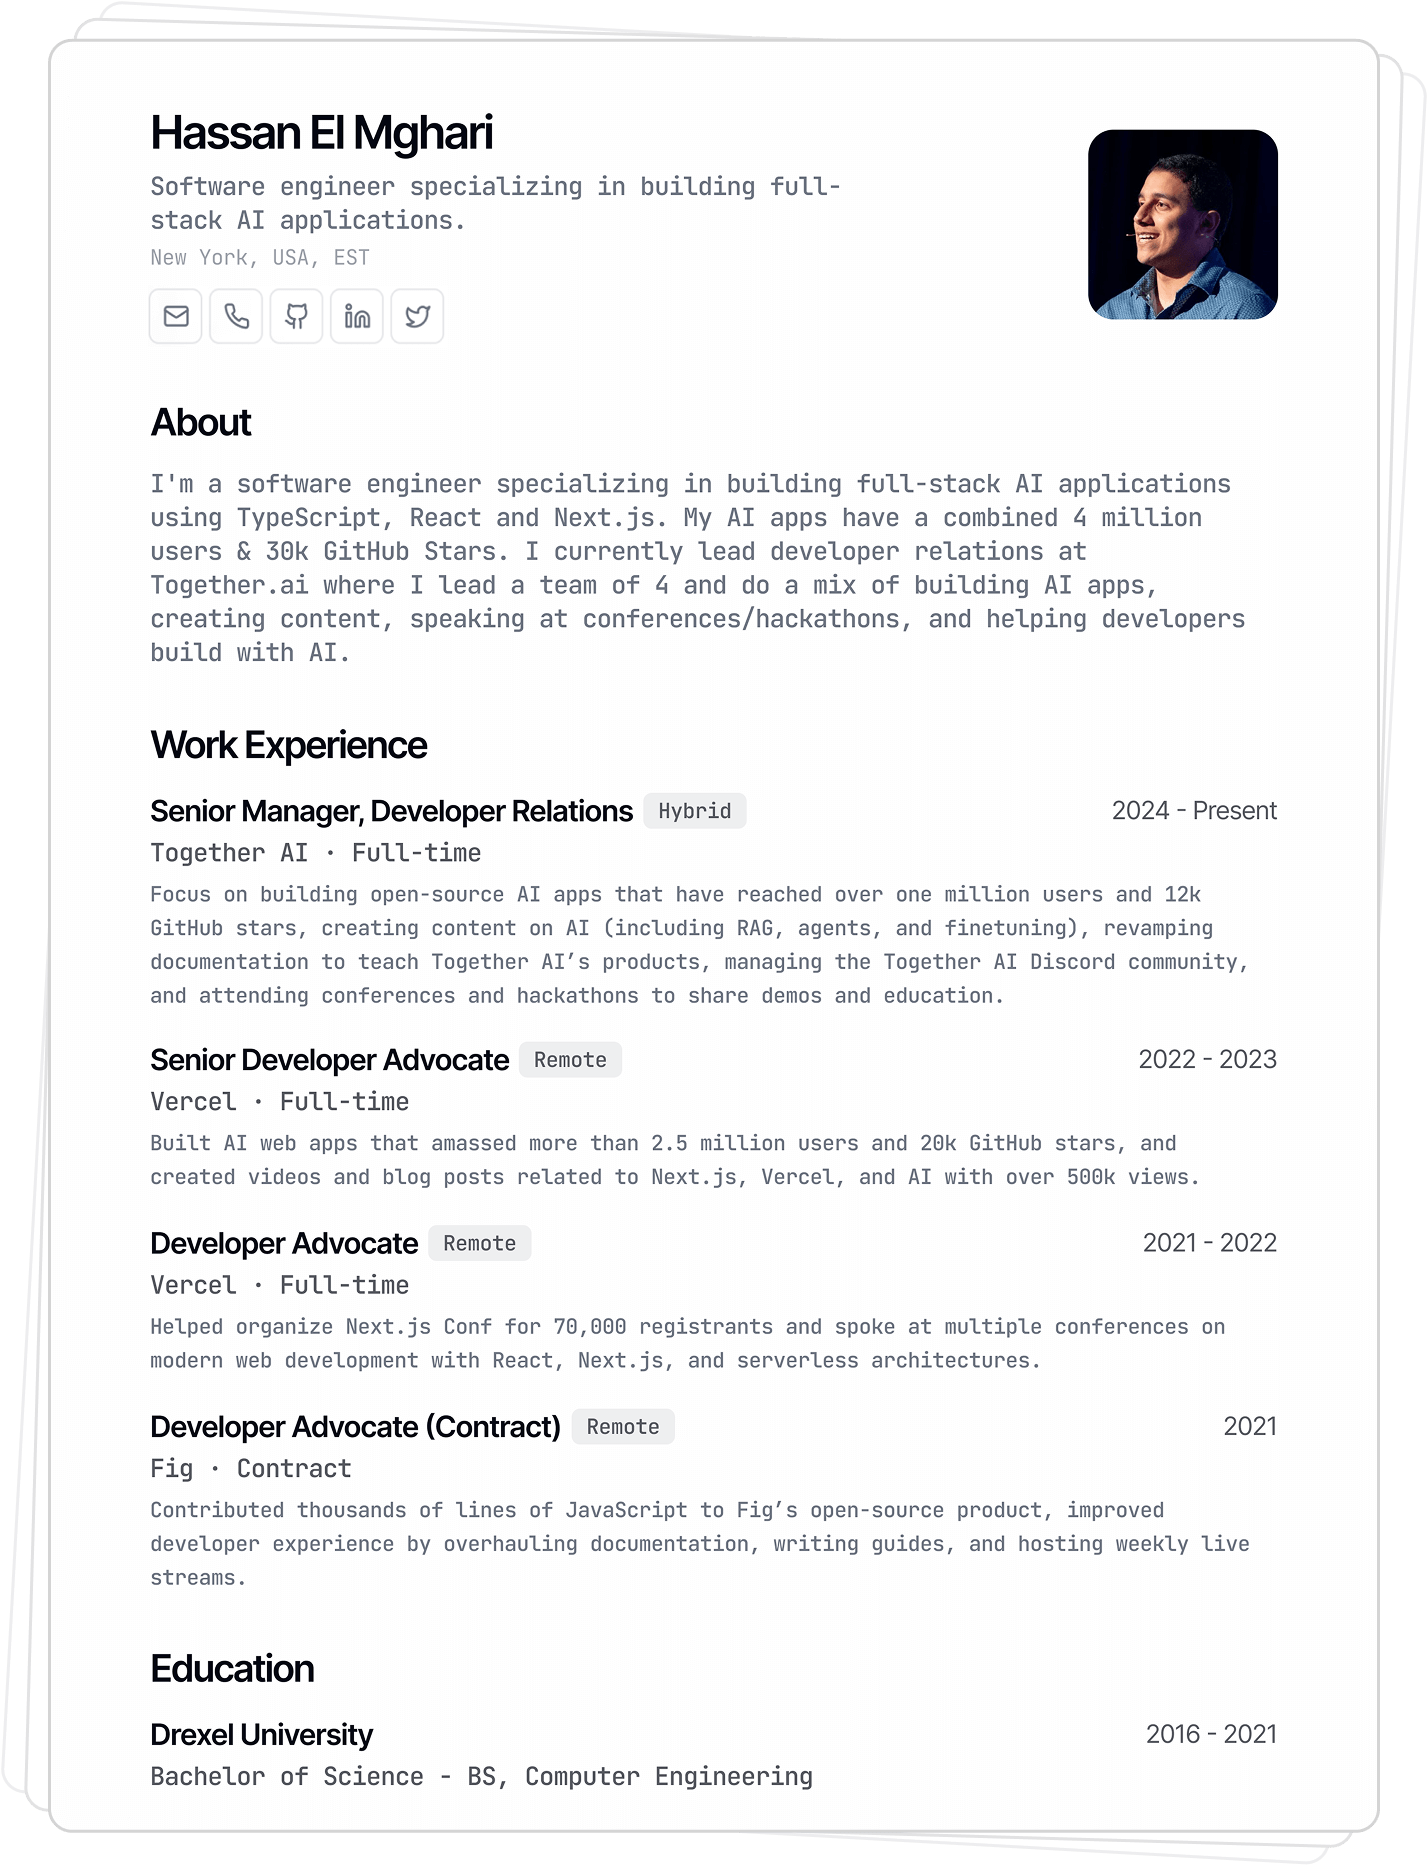
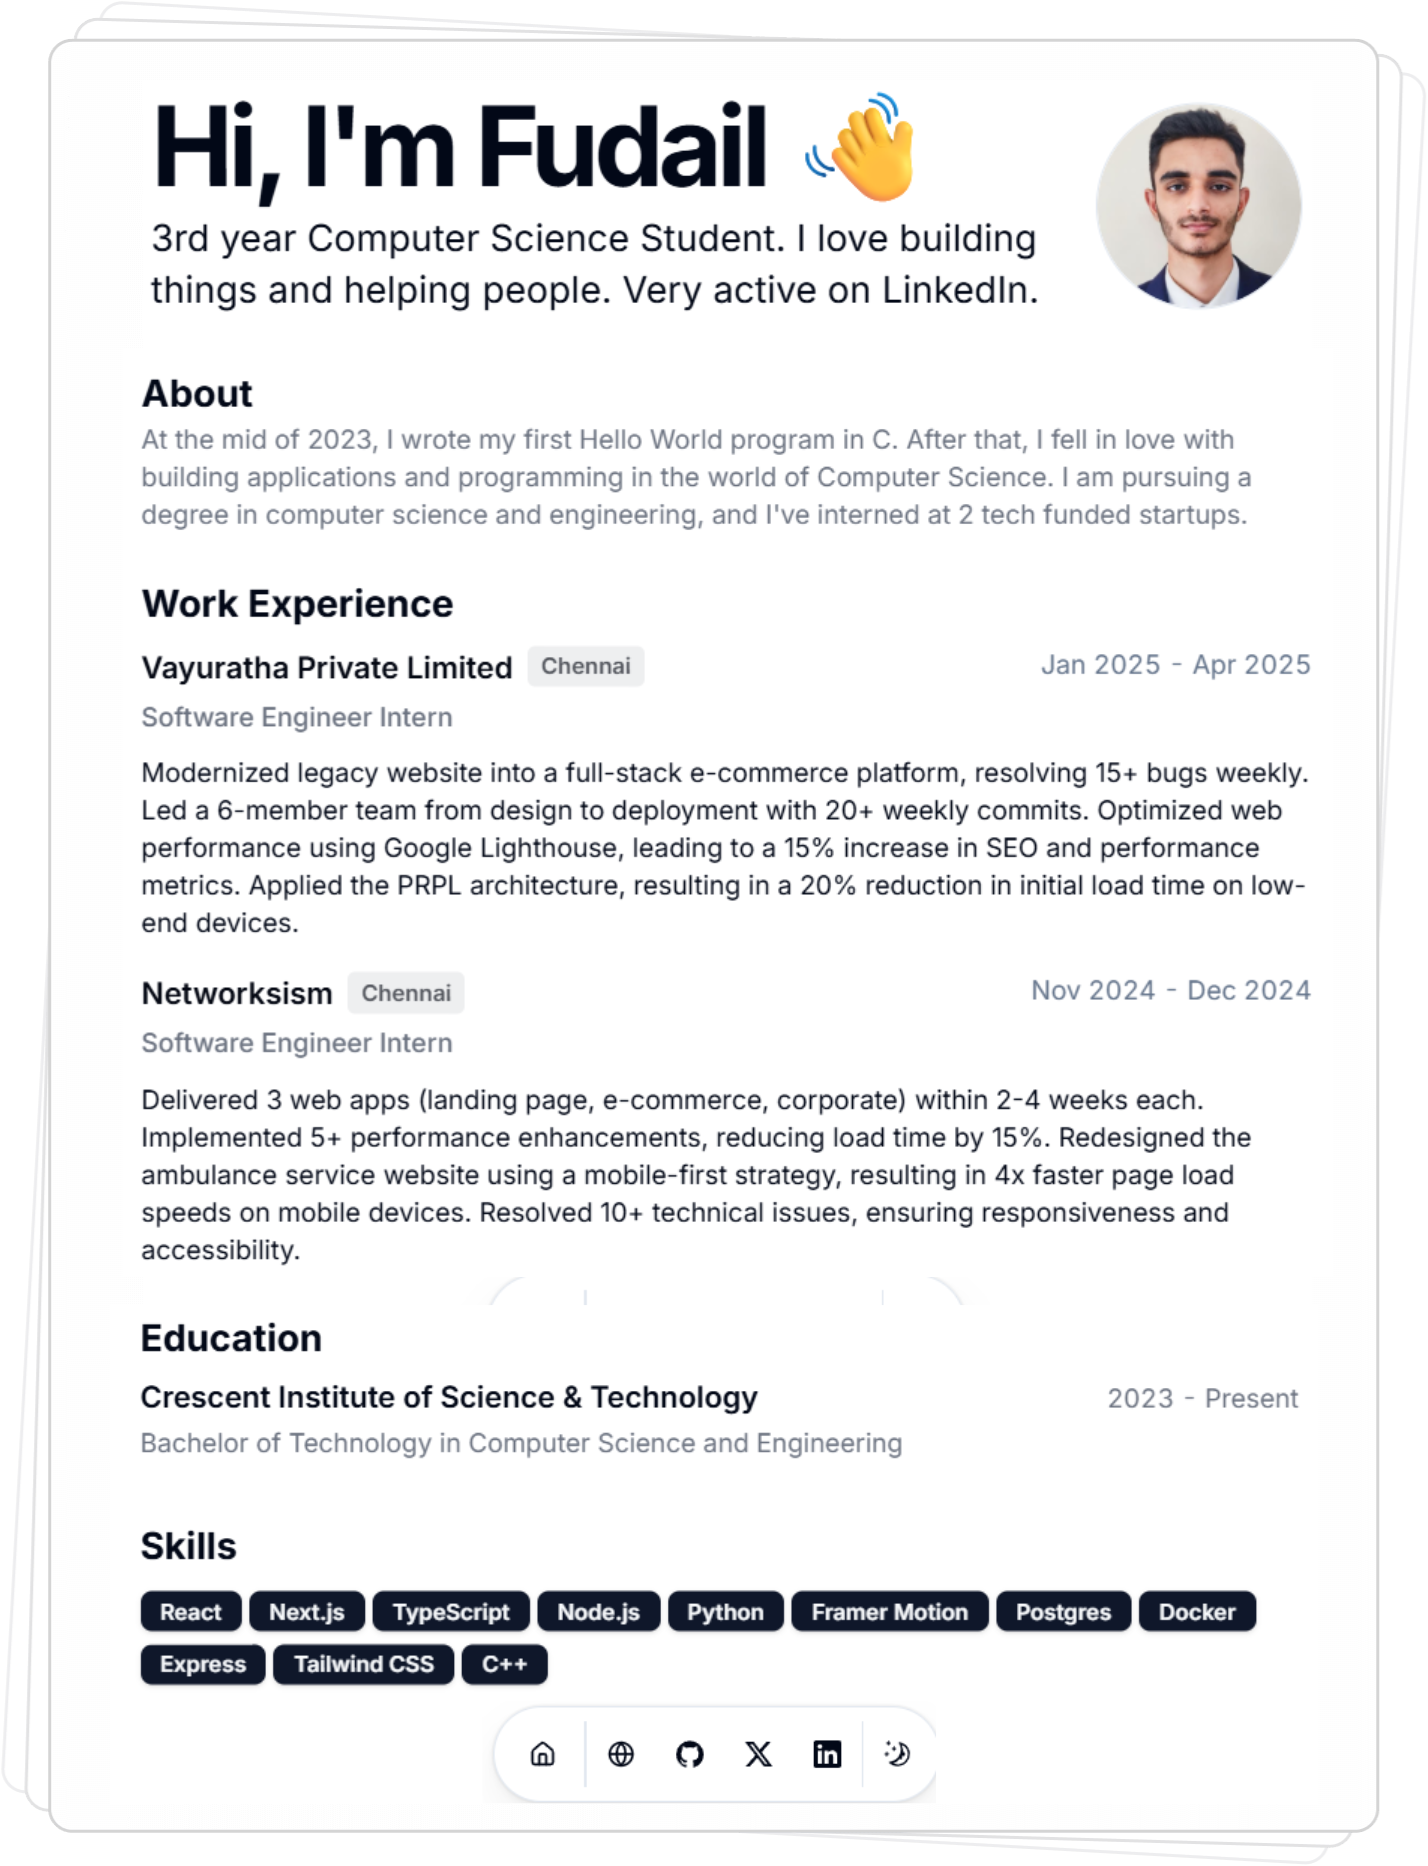
style(home): update hero background and preview image
Changed the hero section's background blur from semi-transparent black to white for improved visual appearance. Also updated the cv-home.png preview image.

diff --git a/components/Hero.tsx b/components/Hero.tsx
@@ -58,7 +58,7 @@ export function Hero() {
 
             {/* Hero Right --- Preview Image */}
             <div className="w-full md:w-1/2 flex justify-center items-center flex-1 relative max-h-[700px] min-w-[50%] lg:min-w-[500px]">
-              <div className="absolute inset-0 -bottom-4 rounded-3xl bg-black/5 blur-xl h-full"></div>
+              <div className="absolute inset-0 -bottom-4 rounded-3xl bg-white blur-xl h-full"></div>
               <BlurFade delay={0.25} inView>
                 <img
                   src="/cv-home.png"
